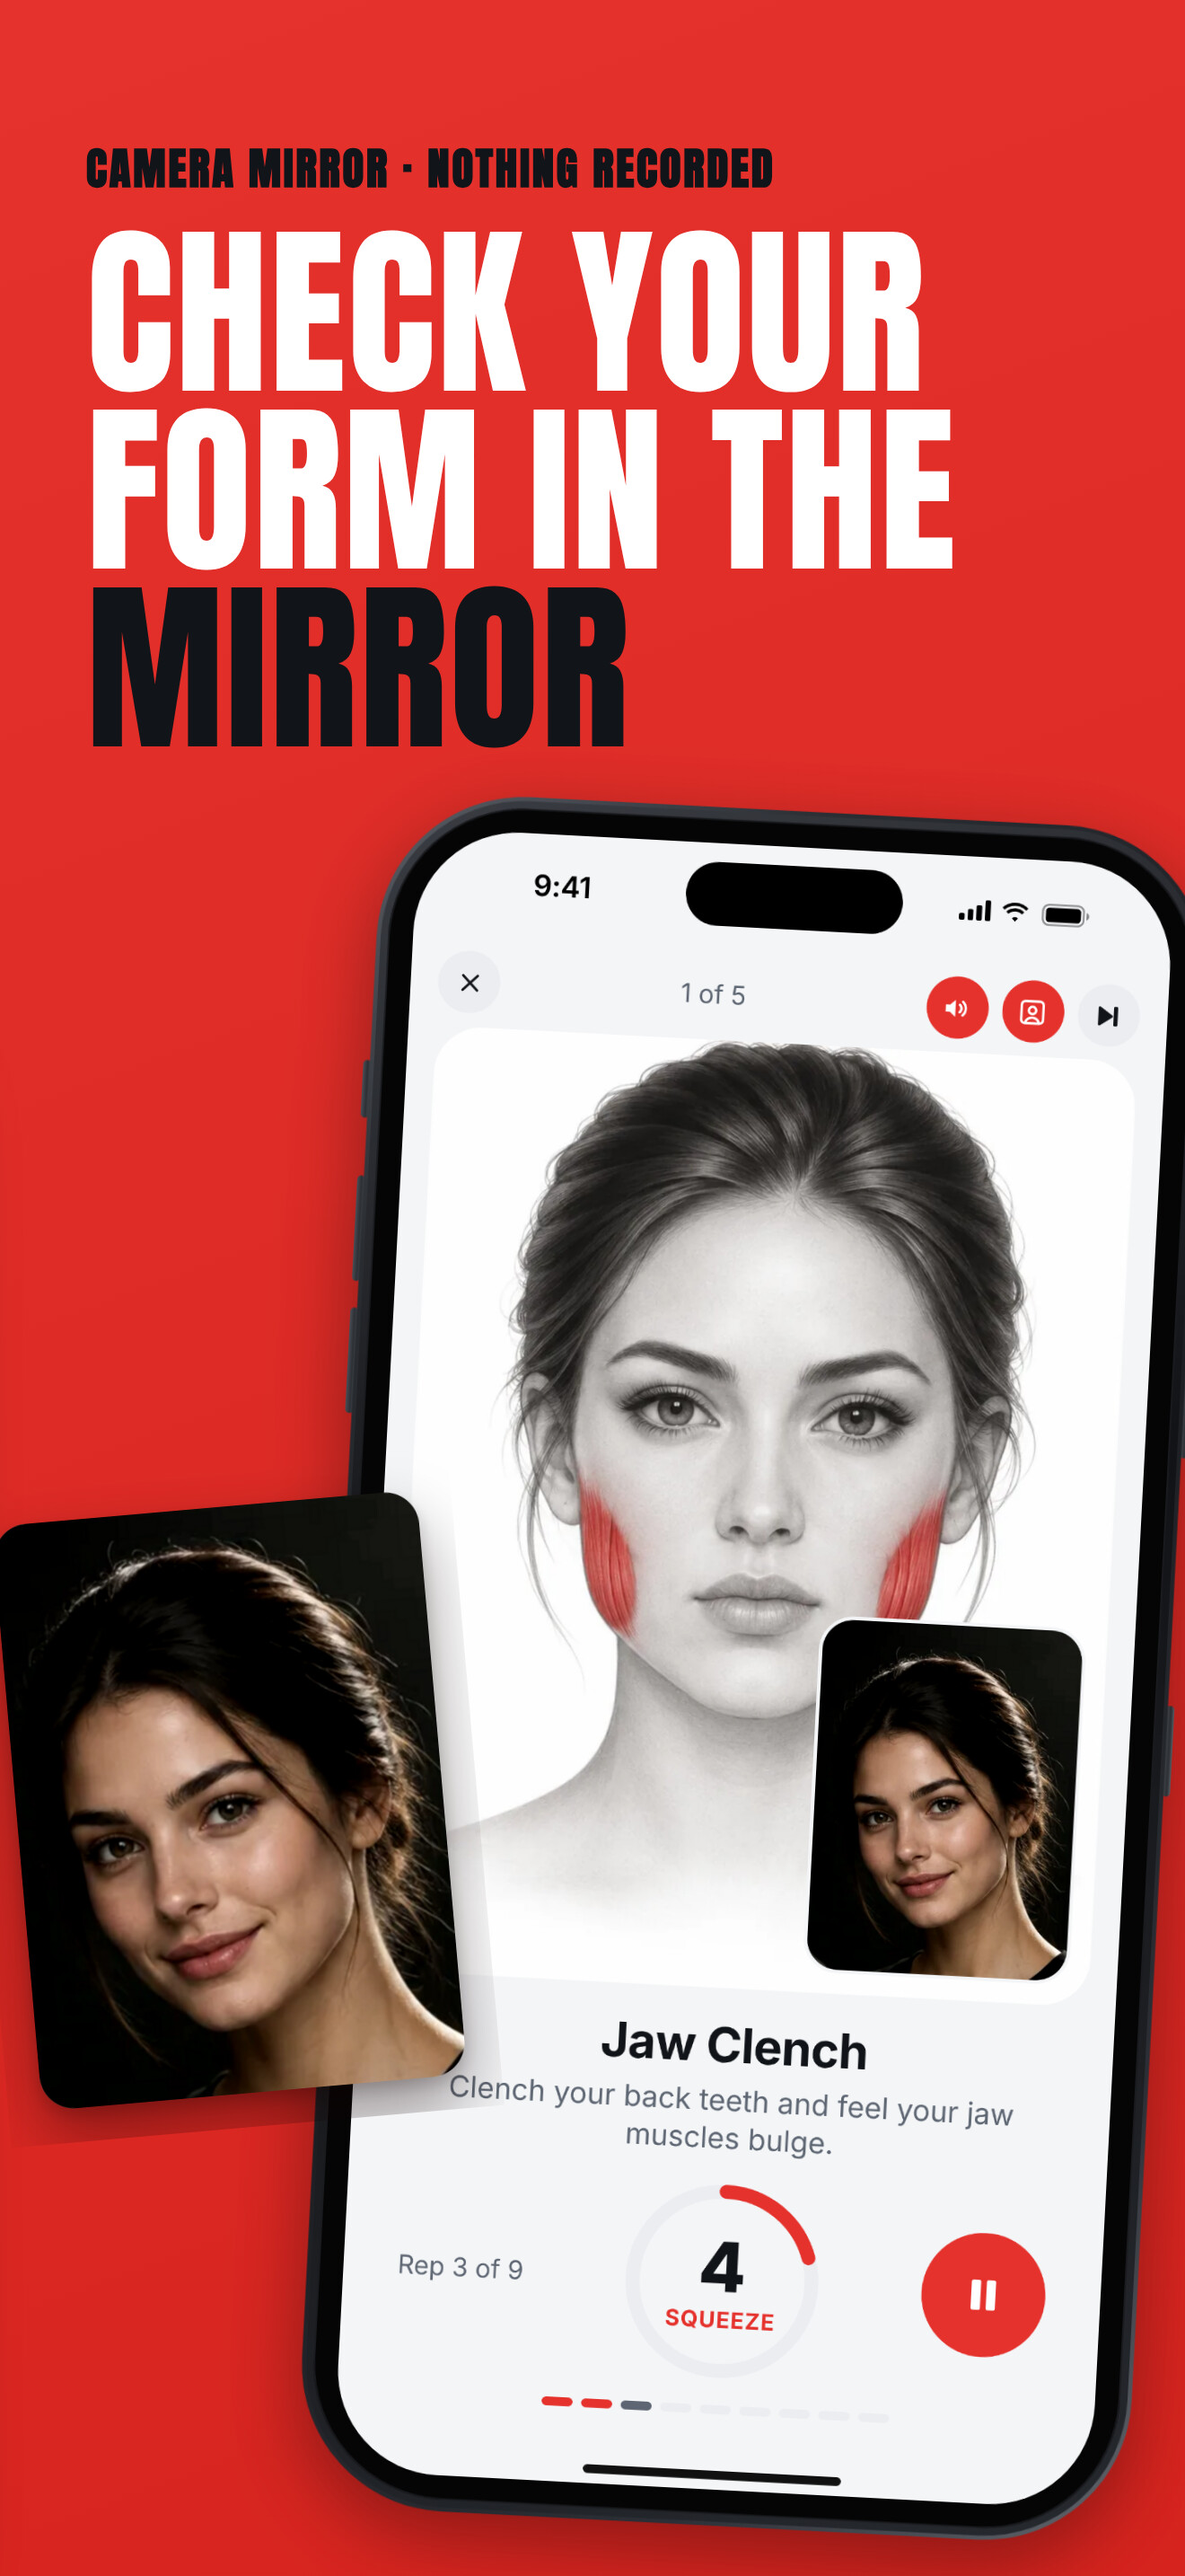
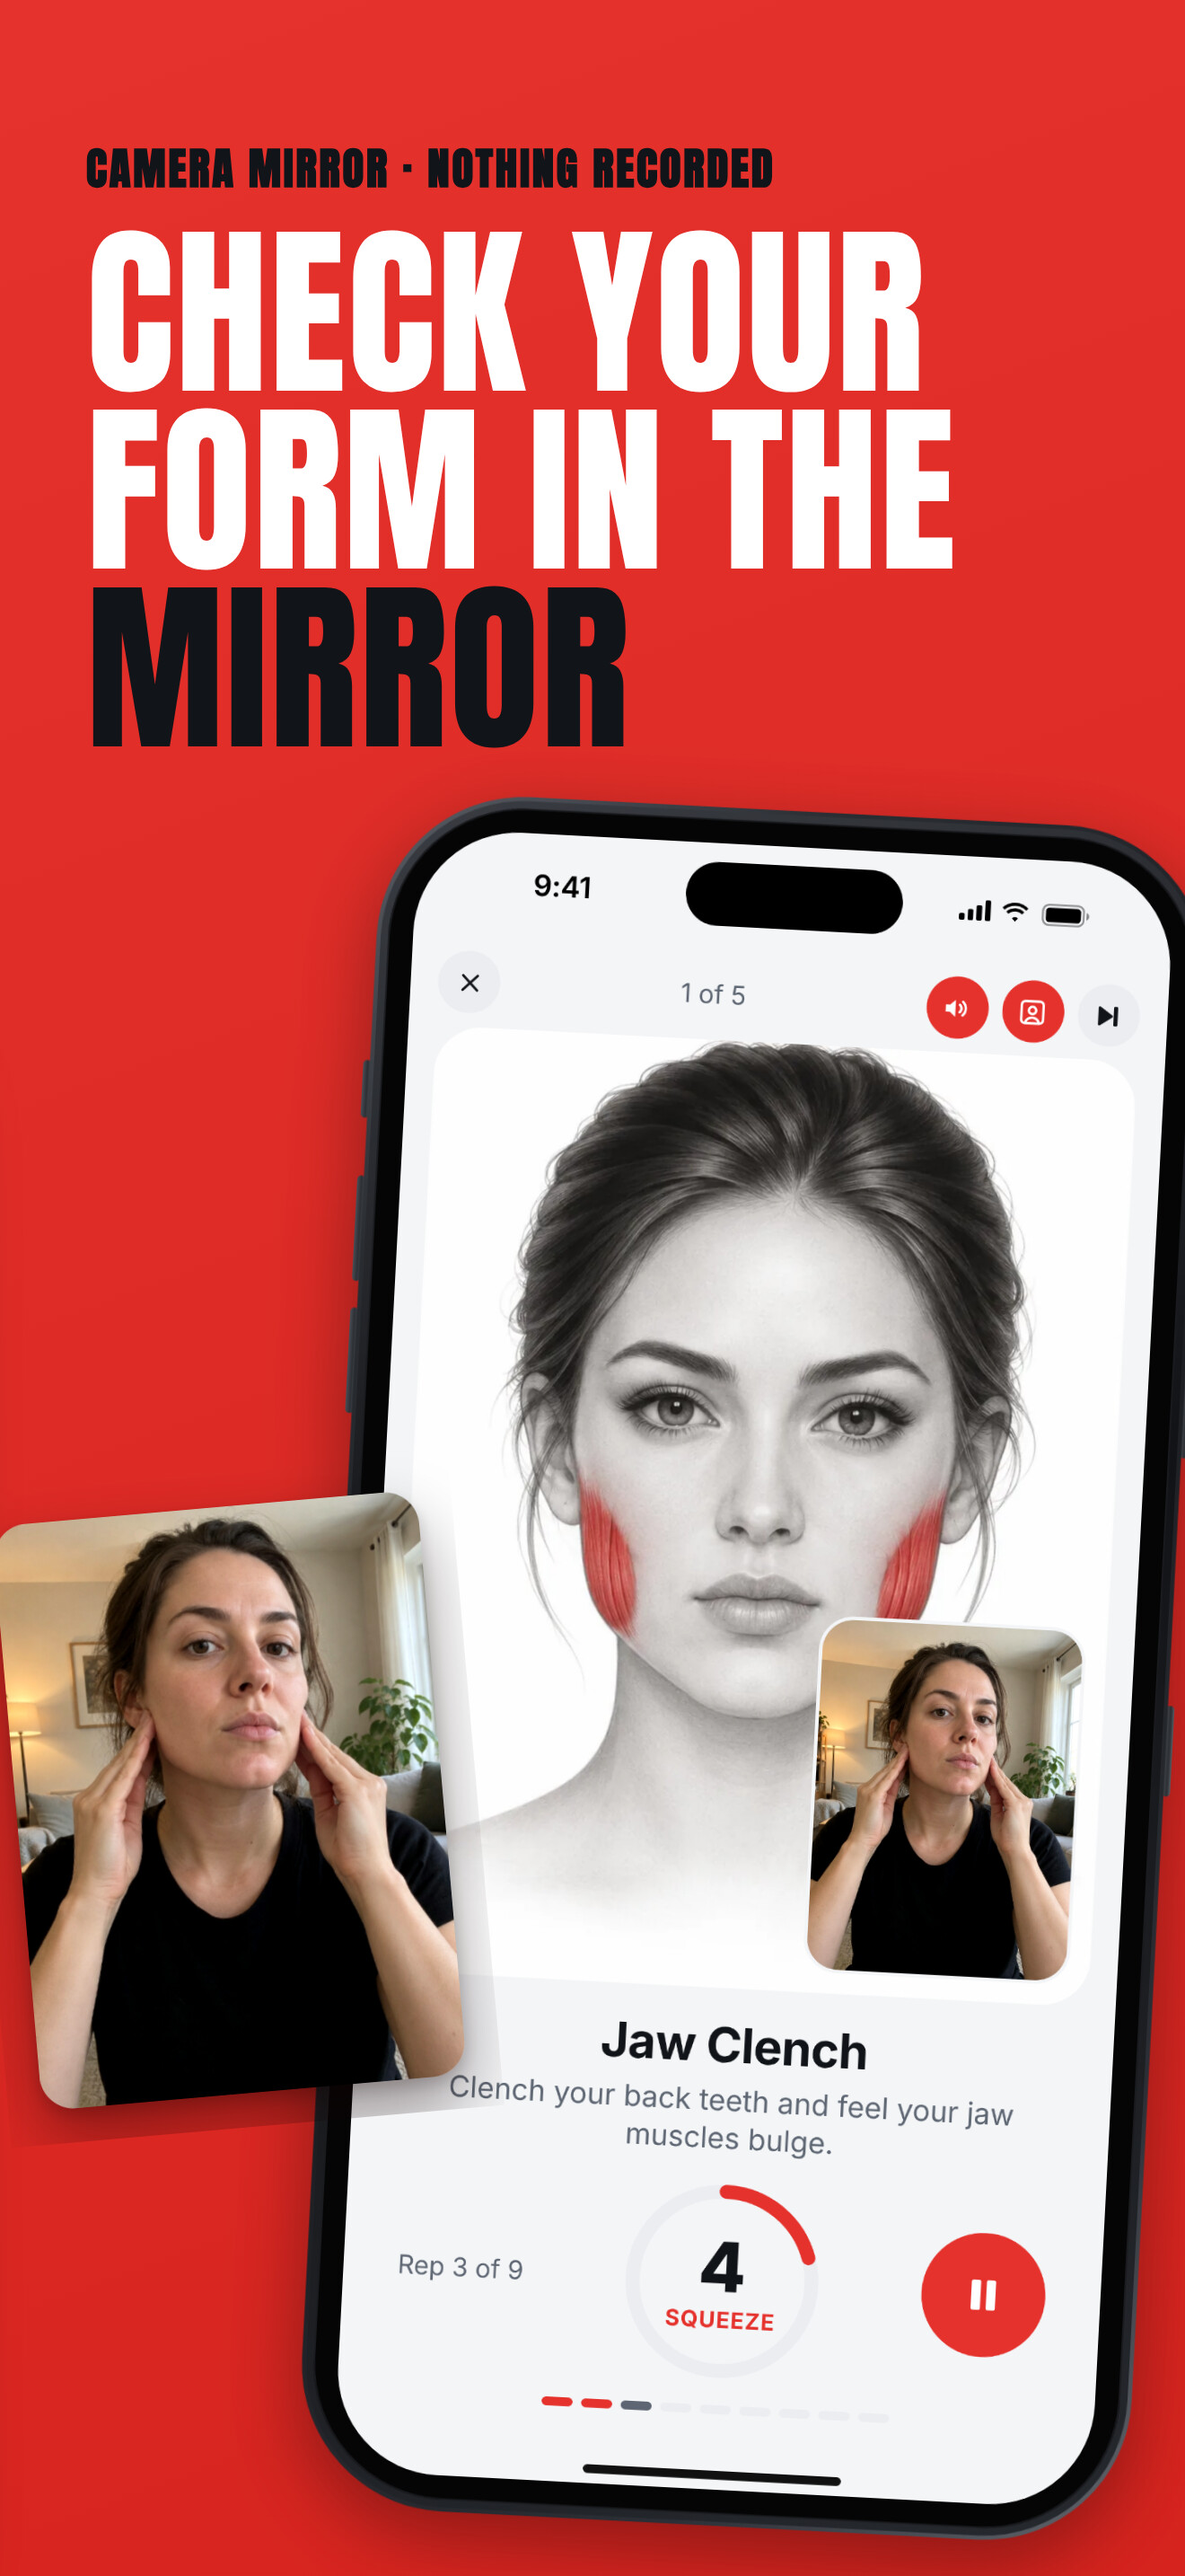
Screenshots: the mirror shows a real-looking front camera (English sample)
- capture/camera/woman-jaw-clench.jpg: generated with Figma AI (a fictional woman doing the Jaw Clench at
  home, framed like a phone's front camera, fingertips on the jaw muscles). The capture plays it as the
  front camera instead of a crop of the studio welcome photo.
- export/en re-exported with it (slide 5). The other languages still show the old picture until the owner
  approves this sample.

Claude-Session: https://claude.ai/code/session_01EBipzZcuqeqBDcYK7JrH5b

Changed region(s): [[0.0, 0.5586, 0.4038, 0.8379], [0.6833, 0.6206, 0.9318, 0.7758]]

diff --git a/store-screenshots/capture/capture.js b/store-screenshots/capture/capture.js
@@ -78,15 +78,16 @@ async function videoRegion(app) {
 }
 
 /**
- * The front camera for the mirror: the woman from the app's welcome photo (AI-generated, fictional), as a still
- * 3:4 video Chromium plays instead of a camera (raw/camera.y4m, made with ImageMagick).
+ * The front camera for the mirror: camera/woman-jaw-clench.jpg (AI-generated with Figma AI, a fictional woman doing the
+ * Jaw Clench at home, framed like a phone's front camera), as a 3:4 still video Chromium plays instead of a camera
+ * (raw/camera.y4m, made with ImageMagick; delete it after changing the picture).
  */
 function makeCamera() {
   const file = path.join(RAW, 'camera.y4m');
   if (fs.existsSync(file)) return file;
   fs.mkdirSync(RAW, { recursive: true });
-  const yuv = execFileSync('convert', [path.join(HERE, '../../app/assets/brand/welcome.webp'), '-crop', '360x480+10+95', '+repage',
-    '-resize', '720x960!', '-sampling-factor', '4:2:0', '-depth', '8', '-colorspace', 'YCbCr', '-interlace', 'plane', 'yuv:-'], { maxBuffer: 1 << 24 });
+  const yuv = execFileSync('convert', [path.join(HERE, 'camera/woman-jaw-clench.jpg'), '-resize', '720x960^', '-gravity', 'center', '-extent', '720x960',
+    '-sampling-factor', '4:2:0', '-depth', '8', '-colorspace', 'YCbCr', '-interlace', 'plane', 'yuv:-'], { maxBuffer: 1 << 24 });
   const frame = Buffer.concat([Buffer.from('FRAME\n'), yuv]);
   fs.writeFileSync(file, Buffer.concat([Buffer.from('YUV4MPEG2 W720 H960 F30:1 Ip A1:1 C420jpeg\n'), frame, frame]));
   return file;
